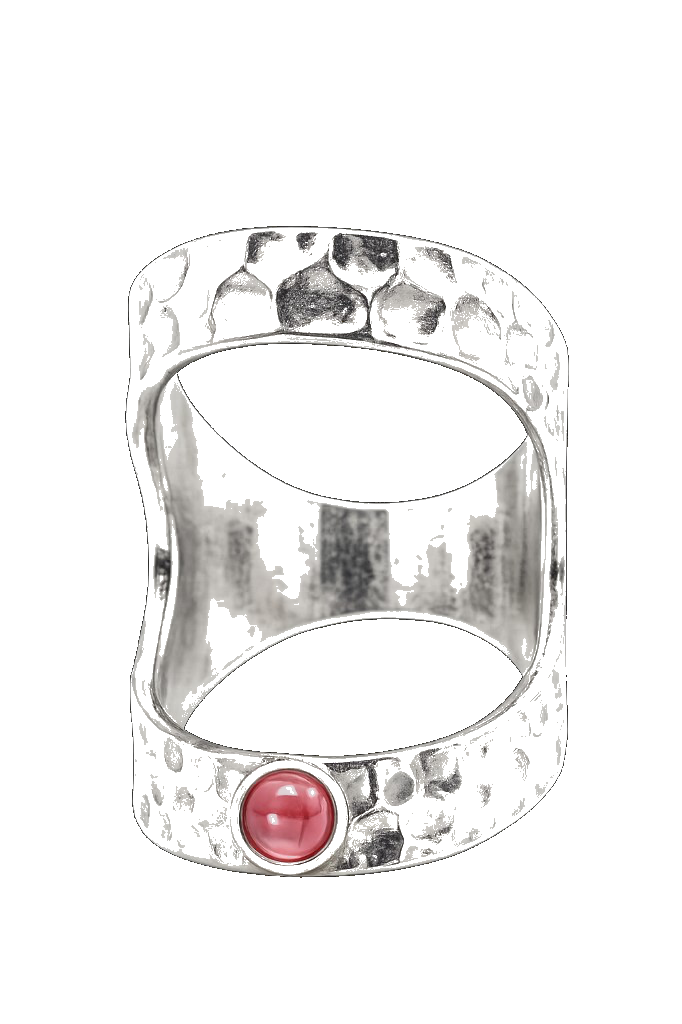
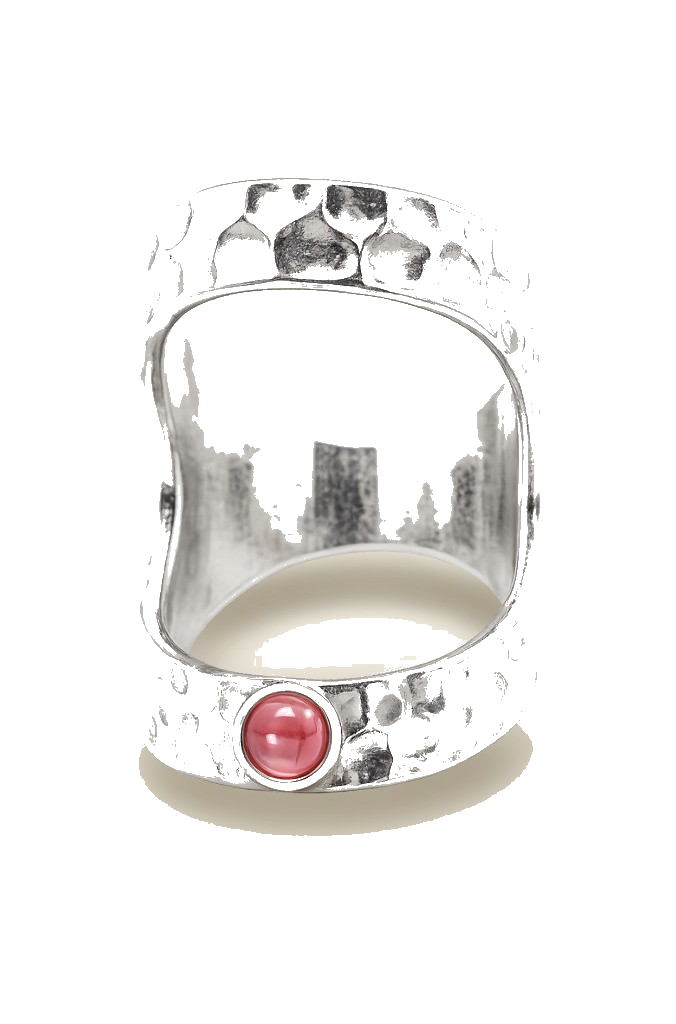
Убрать фон у фото old-phalanx, обновить кэш v23

Changed region(s): [[0.1864, 0.1562, 0.8388, 0.875]]

diff --git a/scripts/fix-catalog-bg.js b/scripts/fix-catalog-bg.js
@@ -192,6 +192,12 @@ function isBackgroundPixel(rgb, cornerAvg) {
     return false;
   }
 
+  if (luminance(cornerAvg) >= 180) {
+    if (dist(rgb, cornerAvg) <= 68) return true;
+    if (dist(rgb, TARGET) <= 40 && s < 24 && lum >= 140) return true;
+    return false;
+  }
+
   if (dist(rgb, cornerAvg) <= 52) return true;
   if (lum <= 40 && s < 28) return true;
   if (lum >= 188 && s < 34) return true;
@@ -229,7 +235,7 @@ function floodReplaceBg(data, width, height) {
     tryPush(width - 1, y);
   }
 
-  if (luminance(cornerAvg) < 55) {
+  if (luminance(cornerAvg) < 55 || luminance(cornerAvg) >= 180) {
     const seeds = [
       [Math.floor(width * 0.5), Math.floor(height * 0.27)],
       [Math.floor(width * 0.5), Math.floor(height * 0.73)],
@@ -241,12 +247,14 @@ function floodReplaceBg(data, width, height) {
     });
   }
 
-  for (let i = 0; i < width * height; i++) {
-    if (visited[i]) continue;
-    const p = i * BPP;
-    const rgb = [data[p], data[p + 1], data[p + 2]];
-    const lum = luminance(rgb);
-    if (lum >= 205 && spread(rgb) < 18) visited[i] = 1;
+  if (luminance(cornerAvg) < 55) {
+    for (let i = 0; i < width * height; i++) {
+      if (visited[i]) continue;
+      const p = i * BPP;
+      const rgb = [data[p], data[p + 1], data[p + 2]];
+      const lum = luminance(rgb);
+      if (lum >= 205 && spread(rgb) < 18) visited[i] = 1;
+    }
   }
 
   let head = 0;
@@ -275,6 +283,76 @@ function floodReplaceBg(data, width, height) {
     tryPush(x + 1, y);
     tryPush(x, y - 1);
     tryPush(x, y + 1);
+  }
+}
+
+function expandStudioTransparency(data, width, height, cornerAvg) {
+  const total = width * height;
+  for (let pass = 0; pass < 3; pass++) {
+    const scratch = Buffer.alloc(total);
+    for (let idx = 0; idx < total; idx++) {
+      scratch[idx] = data[idx * BPP + 3];
+    }
+    for (let idx = 0; idx < total; idx++) {
+      if (scratch[idx] >= 128) continue;
+      const x = idx % width;
+      const y = (idx / width) | 0;
+      const neighbors = [
+        [x - 1, y],
+        [x + 1, y],
+        [x, y - 1],
+        [x, y + 1],
+      ];
+      neighbors.forEach(function (pt) {
+        const nx = pt[0];
+        const ny = pt[1];
+        if (nx < 0 || ny < 0 || nx >= width || ny >= height) return;
+        const ni = (ny * width + nx) * BPP;
+        if (data[ni + 3] < 128) return;
+        const rgb = [data[ni], data[ni + 1], data[ni + 2]];
+        if (isColoredStone(rgb[0], rgb[1], rgb[2])) return;
+        const lum = luminance(rgb);
+        const s = spread(rgb);
+        if (dist(rgb, cornerAvg) <= 72 && s < 34 && lum >= 92 && lum <= 248) {
+          data[ni + 3] = 0;
+        }
+      });
+    }
+  }
+}
+
+function removeStudioFringe(data, width, height, cornerAvg) {
+  const x0 = Math.floor(width * 0.2);
+  const x1 = Math.floor(width * 0.8);
+  const y0 = Math.floor(height * 0.28);
+  const y1 = Math.floor(height * 0.72);
+  const shadowY = Math.floor(height * 0.8);
+
+  for (let i = 0; i < data.length; i += BPP) {
+    if (data[i + 3] < 10) continue;
+    const r = data[i];
+    const g = data[i + 1];
+    const b = data[i + 2];
+    if (isColoredStone(r, g, b)) continue;
+    const rgb = [r, g, b];
+    const lum = luminance(rgb);
+    const s = spread(rgb);
+    const idx = i / BPP;
+    const x = idx % width;
+    const y = (idx / width) | 0;
+    const isCream =
+      dist(rgb, TARGET) <= 38 && s < 20 && lum >= 218;
+    const inOpening = x >= x0 && x <= x1 && y >= y0 && y <= y1;
+    const inShadow = y >= shadowY;
+
+    if (isCream && (inOpening || inShadow || y < 12 || y > height - 12 || x < 8 || x > width - 8)) {
+      data[i + 3] = 0;
+      continue;
+    }
+
+    if (y >= shadowY && dist(rgb, cornerAvg) <= 68 && s < 32 && lum >= 108 && lum <= 238) {
+      data[i + 3] = 0;
+    }
   }
 }
 
@@ -614,22 +692,46 @@ if (!file) {
 }
 
 const buf = fs.readFileSync(file);
+if (buf[0] === 0xff && buf[1] === 0xd8) {
+  console.error(
+    "JPEG detected — convert first: sips -s format png <file> --out <file>"
+  );
+  process.exit(1);
+}
 const { width, height, data } = decodePng(buf);
+const cornerAvg = sampleCorners(data, width, height).reduce(
+  (acc, c) => [acc[0] + c[0], acc[1] + c[1], acc[2] + c[2]],
+  [0, 0, 0]
+).map((v) => Math.round(v / 8));
+const isStudioBg = luminance(cornerAvg) >= 180;
+
 floodReplaceBg(data, width, height);
-if (CRISP) {
-  refineDarkPixels(data, width, height);
-  removePureBlack(data);
-  crispMetalFinish(data);
-  straightenAlpha(data, width, height);
-} else if (PHOTOGRAPHIC) {
-  refineDarkPixels(data, width, height);
-  removePureBlack(data);
-  photographicFinish(data, width, height);
-} else {
-  removePureBlack(data);
+if (isStudioBg) {
+  expandStudioTransparency(data, width, height, cornerAvg);
+  removeStudioFringe(data, width, height, cornerAvg);
+}
+if (!isStudioBg) {
+  if (CRISP) {
+    refineDarkPixels(data, width, height);
+    removePureBlack(data);
+    crispMetalFinish(data);
+    straightenAlpha(data, width, height);
+  } else if (PHOTOGRAPHIC) {
+    refineDarkPixels(data, width, height);
+    removePureBlack(data);
+    photographicFinish(data, width, height);
+  } else {
+    removePureBlack(data);
+  }
 }
 if (NO_GLARE) removeGlares(data);
 else if (SOFTEN_METAL && !PHOTOGRAPHIC && !CRISP) softenMetalHighlights(data);
 fs.writeFileSync(file, encodePng(width, height, data));
-const mode = CRISP ? "(crisp)" : PHOTOGRAPHIC ? "(photographic)" : "";
+const mode = isStudioBg
+  ? "(studio)"
+  : CRISP
+    ? "(crisp)"
+    : PHOTOGRAPHIC
+      ? "(photographic)"
+      : "";
 console.log("Updated", file, mode);

diff --git a/main.js b/main.js
@@ -239,7 +239,7 @@
     initPackagingCarousel();
   }
 
-  var CATALOG_ASSET_VERSION = "18";
+  var CATALOG_ASSET_VERSION = "23";
 
   function productCategoryLabel(product) {
     if (product.category) return product.category;

diff --git a/product/main.js b/product/main.js
@@ -1,5 +1,5 @@
 (function () {
-  var MEDIA_ASSET_VERSION = "18";
+  var MEDIA_ASSET_VERSION = "23";
 
   function mediaSrc(relativePath) {
     return "../../" + relativePath + "?v=" + MEDIA_ASSET_VERSION;